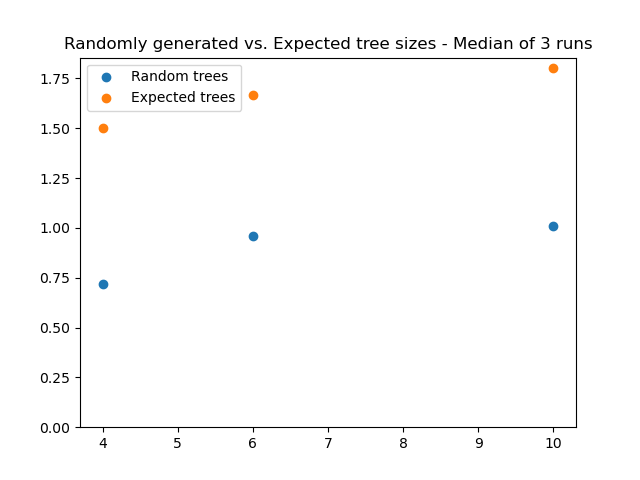
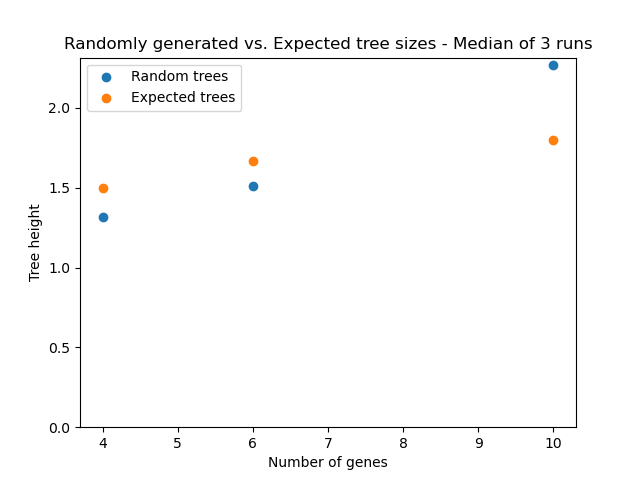
set new seed values

diff --git a/A6/material_A06/auckenthaler_dittschar_PopGenSimulator.py b/A6/material_A06/auckenthaler_dittschar_PopGenSimulator.py
@@ -22,8 +22,8 @@ class PopGenSimulator:
         :return: previous_generation
         """
         # set random seed to make the results reproducalbe       
-        random.seed(0)
-        np.random.seed(0)
+        random.seed(1)
+        np.random.seed(50)
         # make a list out of the current generation for workability
         list_cur_gen = list(current_generation)
 
@@ -109,6 +109,8 @@ class PopGenSimulator:
         plt.scatter(sizes, median_arr, label="Random trees")
         plt.scatter(sizes, [2*(1-1/n) for n in sizes], label="Expected trees")
         plt.title("Randomly generated vs. Expected tree sizes - Median of 3 runs")
+        plt.xlabel("Number of genes")
+        plt.ylabel("Tree height")
         plt.ylim(0,None)
         plt.legend()
         plt.savefig("auckenthaler_dittschar_median_vs_expected_trees.png")
